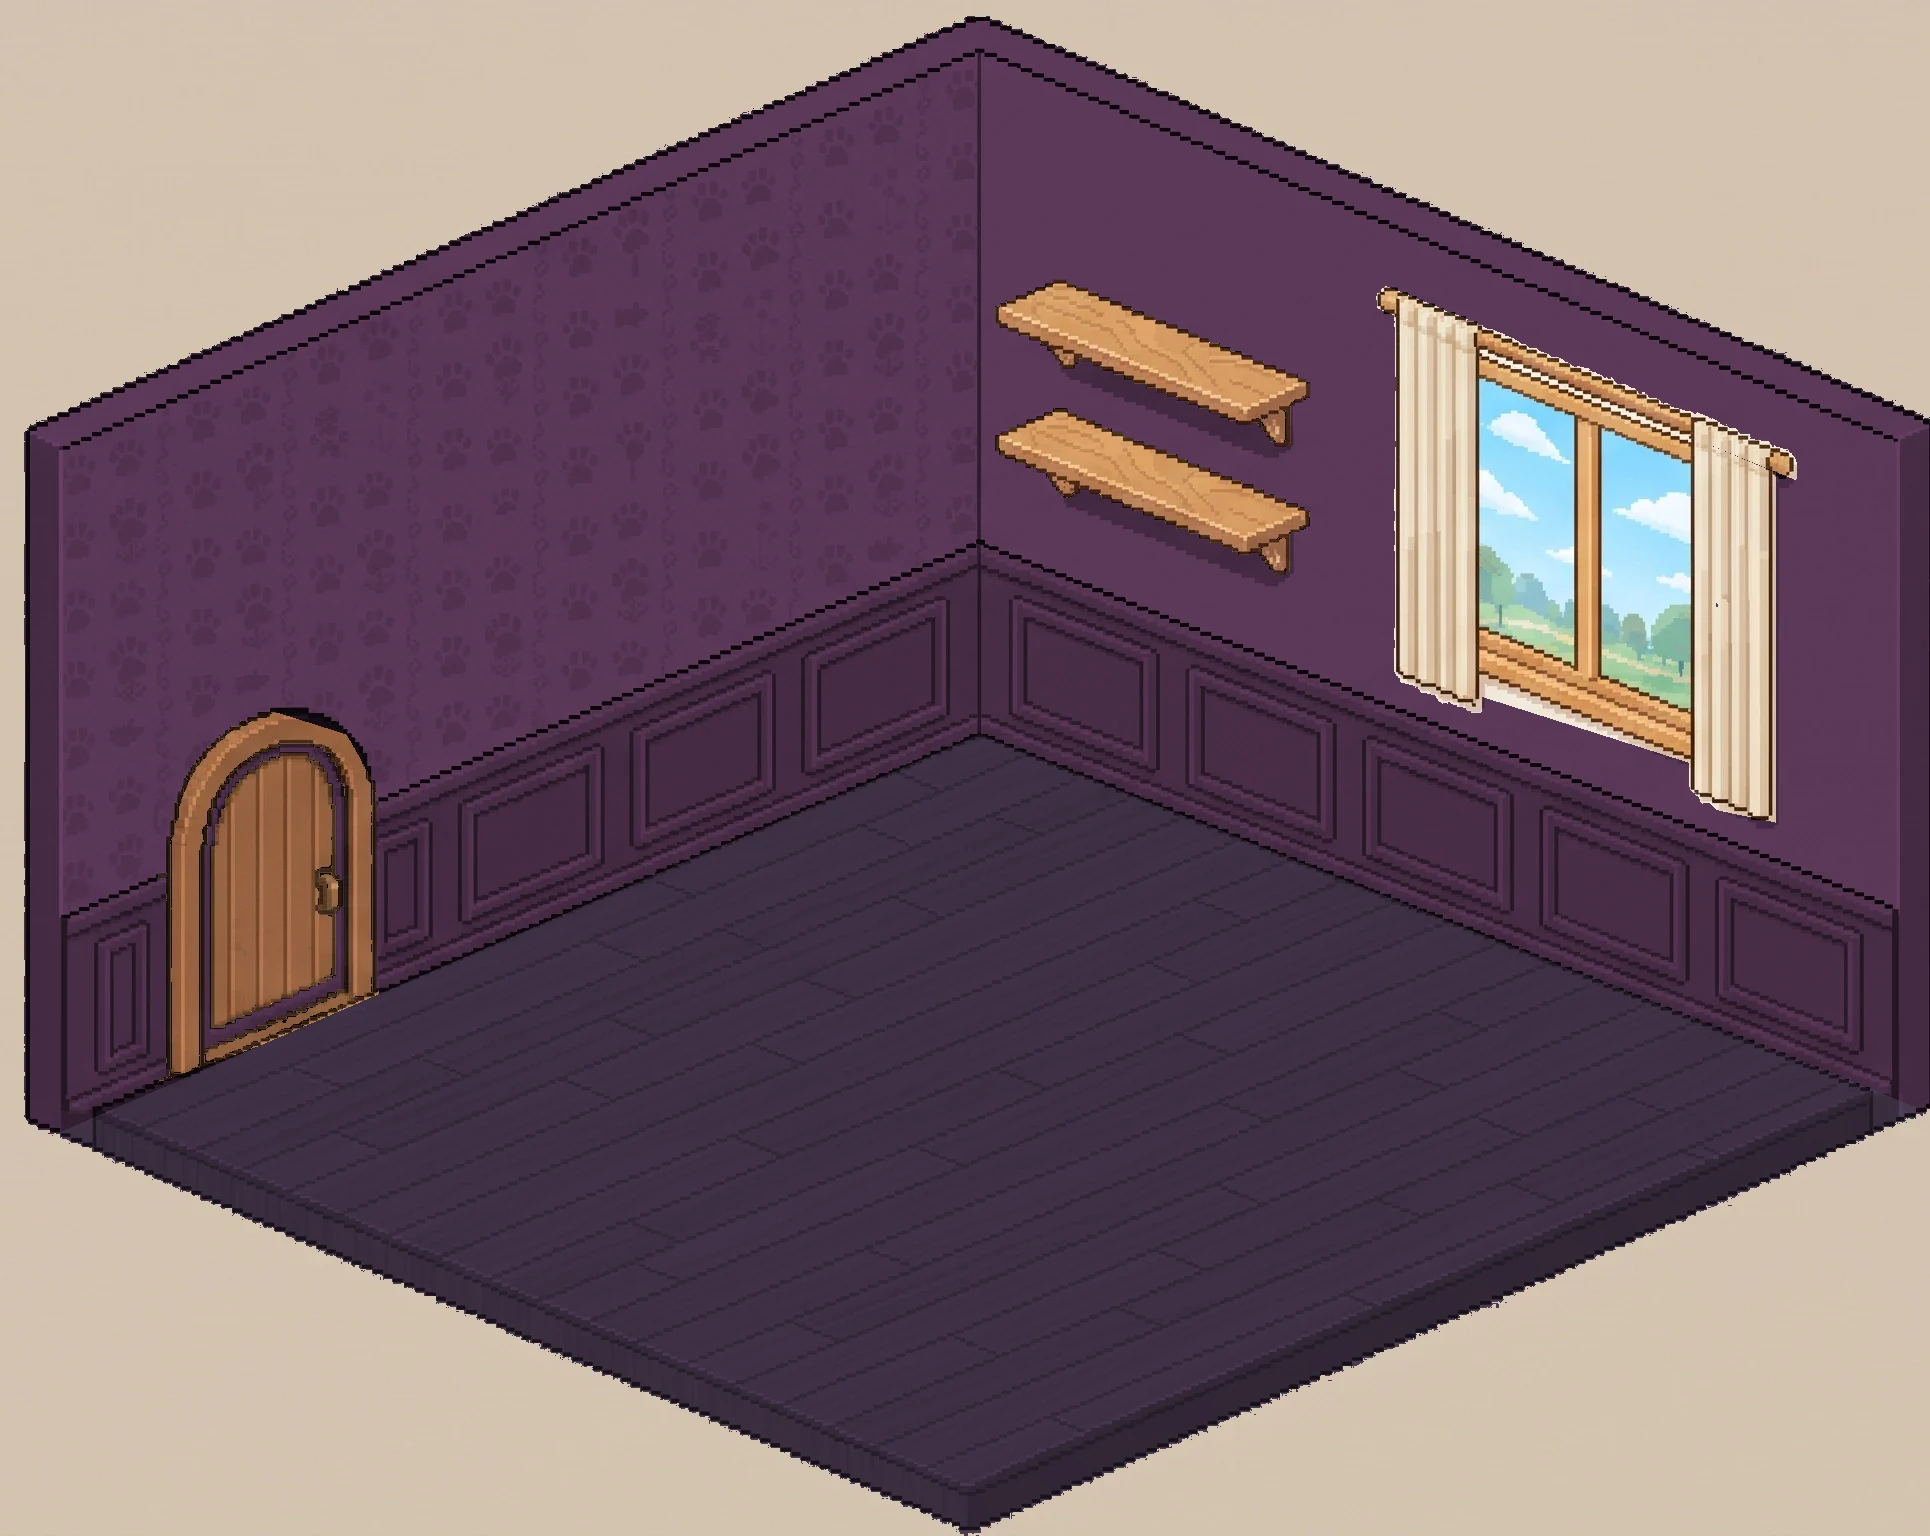
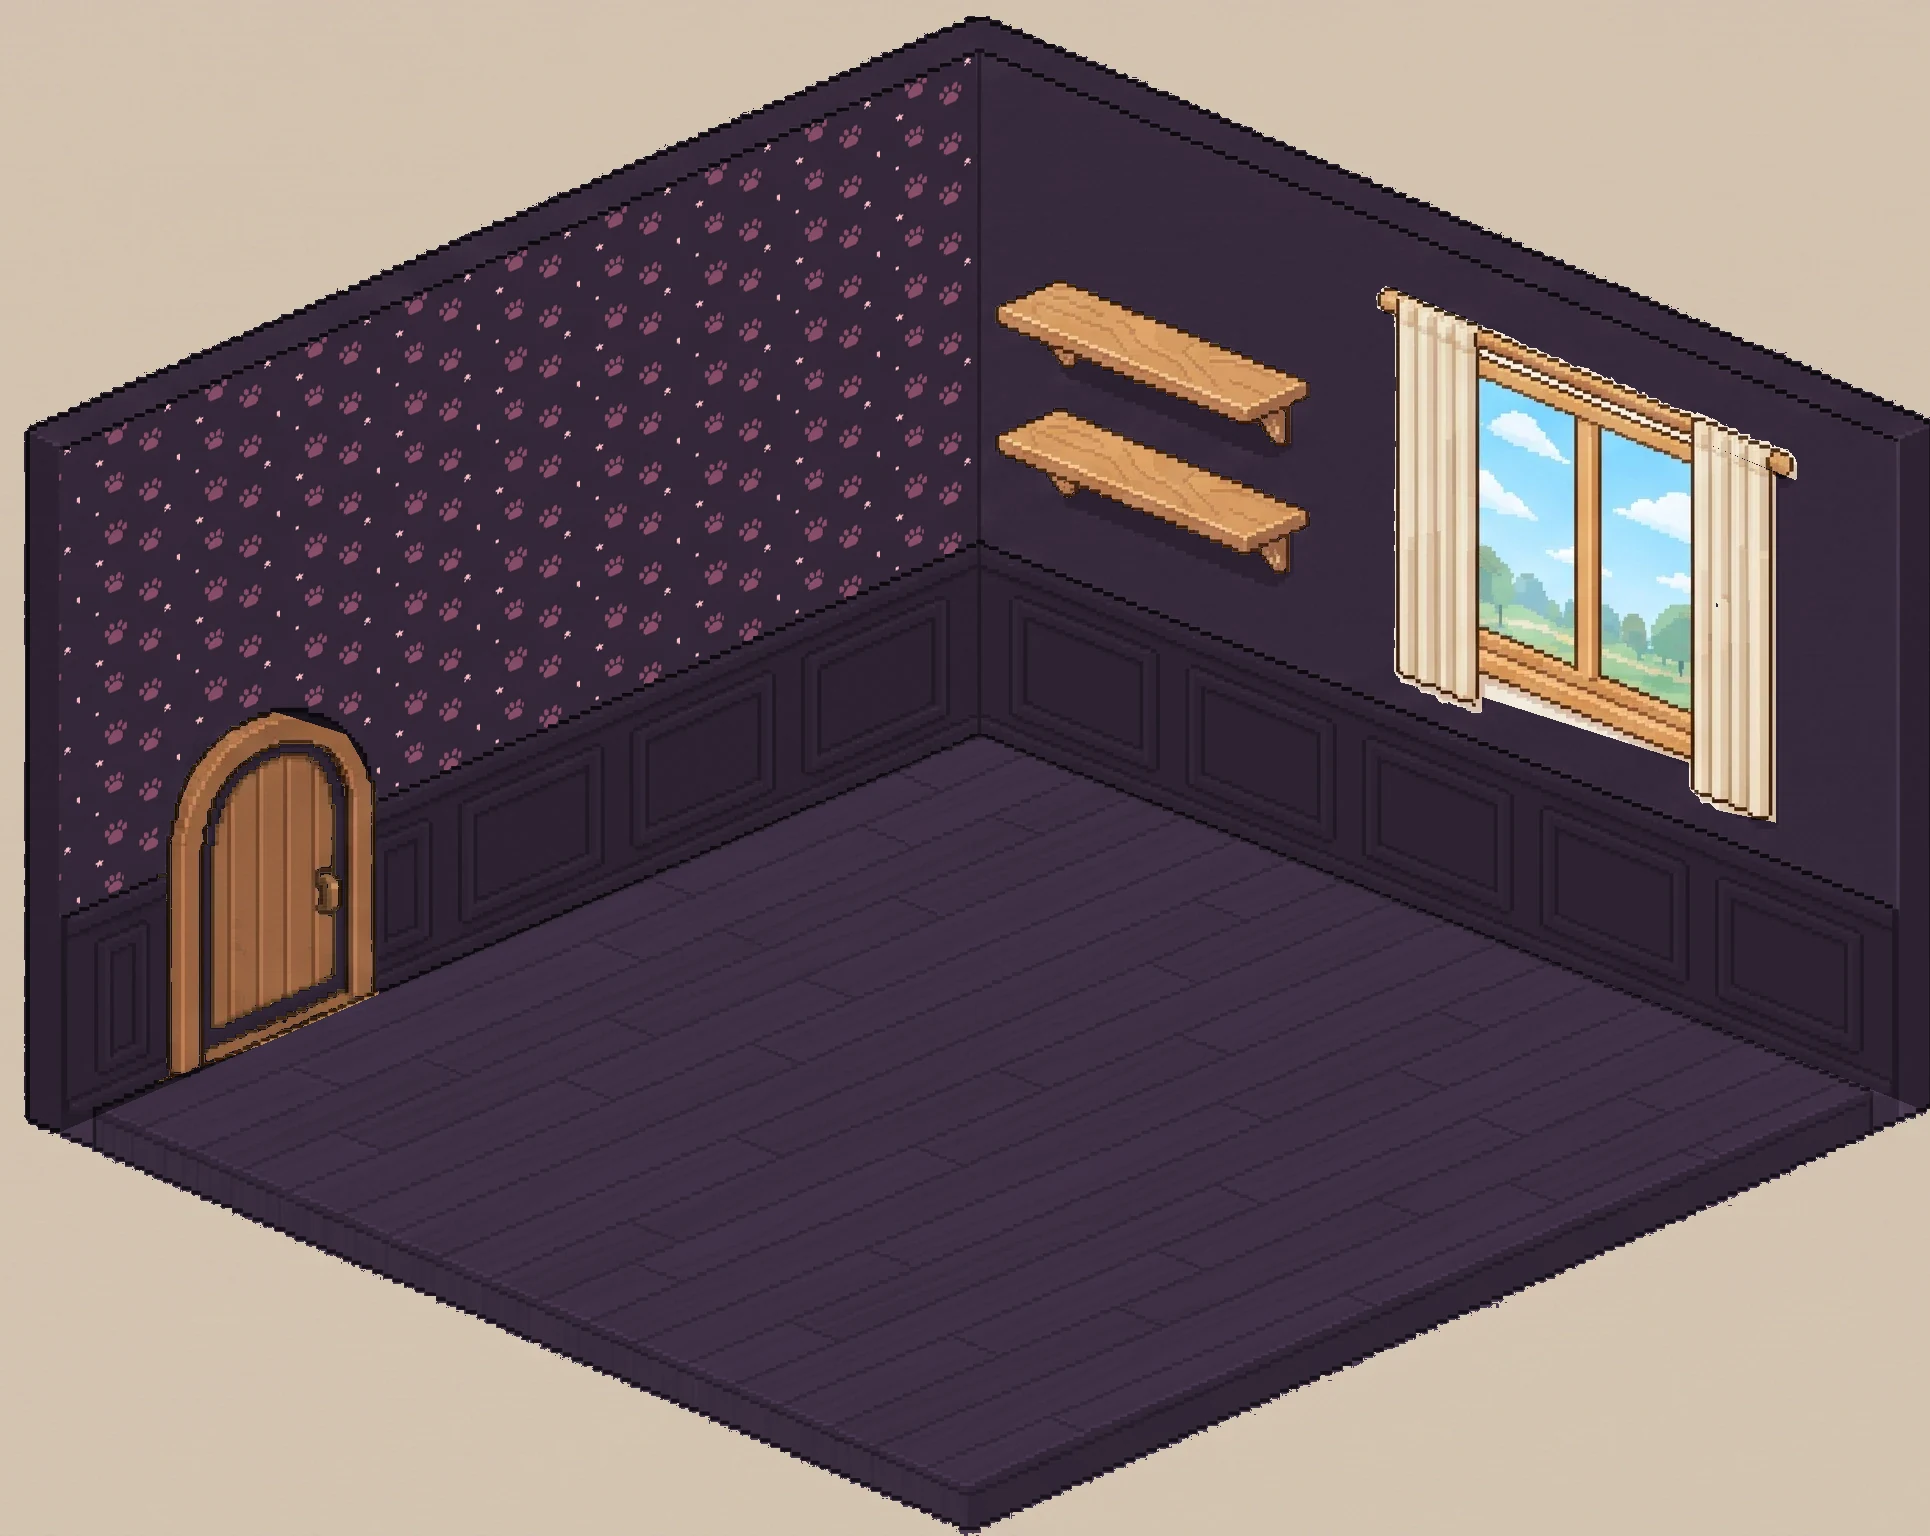
[아지트] 벽지 셋(라일락·분홍·밤)을 받은 원본 견본으로 — 크림 방 왼쪽 벽에 기울기대로 입힘
- sian-ref/azit-hd/paper: 받은 견본 셋 그대로 보관
- _dev/azit-hd-app.py paper_room: 500픽셀 반복 한 칸을 0.2배로, 세로 줄째 벽 기울기만큼 내려 입히고 크림 방 명암을 곱함 · 다른 벽은 견본 바탕색
- azit.html ROOM_V 2, CLAUDE.md·PROJECT_CONTEXT 기록

Claude-Session: https://claude.ai/code/session_01D364GF868k3HTded8WiX4b

diff --git a/azit.html b/azit.html
@@ -463,13 +463,13 @@
   hdReady.then(function () { if (cur && cur.me) tray(); if (cur && cur.show) showList(); });   // 소품 칸 작은 그림도 원본으로
   function hd(n) { return hdPics[n] || null; }
   // 방 그림 — 벽지마다 큰 원본(받는 데 조금 걸림)과 1x 미리보기(작아서 먼저 옴 — 흐리게 먼저 보인다). 고른 벽지만 받는다
-  var roomPics = {}, roomLoading = {};
+  var roomPics = {}, roomLoading = {}, ROOM_V = { room_lilac: 2, room_pink: 2, room_night: 2 };   // 11/27 받은 벽지 원본 셋으로 다시 — 예전 그림이 캐시에 남지 않게
   function roomPic(name) {
     if (roomPics[name]) return roomPics[name];
     if (!roomLoading[name]) {
       roomLoading[name] = true;
-      loadImg(HDI + name + '-1x.webp?v=' + HD_V).then(function (im) { if (im && !roomPics[name]) { roomPics[name] = im; roomPics[name].small = true; roomCache = {}; staticDirty = true; kick(); } });
-      loadImg(HDI + name + '.webp?v=' + HD_V).then(function (im) { if (im) { roomPics[name] = im; roomCache = {}; staticDirty = true; kick(); } });
+      loadImg(HDI + name + '-1x.webp?v=' + (ROOM_V[name] || HD_V)).then(function (im) { if (im && !roomPics[name]) { roomPics[name] = im; roomPics[name].small = true; roomCache = {}; staticDirty = true; kick(); } });
+      loadImg(HDI + name + '.webp?v=' + (ROOM_V[name] || HD_V)).then(function (im) { if (im) { roomPics[name] = im; roomCache = {}; staticDirty = true; kick(); } });
     }
     return null;
   }

diff --git a/_dev/azit-hd-app.py b/_dev/azit-hd-app.py
@@ -3,8 +3,8 @@
 # 가르시아 "고해상도 시안을 적용해줘" → "실제 [아지트]에 적용"(hq DECISIONS 11/26). 시안(azit-hd-sian.html)과 같은 방 그림·소품 원본을
 # 앱 주소(icons/azit-hd)로 옮기고, 원본이 없는 것은 크림 방에서 만든다:
 #   1) 방: 받은 크림 방(sian-ref/azit-hd/room.webp, 원본 x 400부터 1930×1536 — 방 한 점 = 4.5픽셀) → room.webp(크림 발바닥 = jelly)
-#   2) 벽지 셋(라일락·밤 블랙 핑크·분홍): 원본이 없어 크림 방의 벽(벽지·판벽·벽 윗면)만 색을 바꾼다 — 창·커튼·선반 나무·문은 그대로.
-#      밤은 바닥도 보랏빛 어두운 나무로(예전 점 방 room_night과 같은 결, _dev/azit-extra.py room_night). 원본을 받으면 바꾼다
+#   2) 벽지 셋(라일락·밤 블랙 핑크·분홍): 11/27 받은 평평한 견본(sian-ref/azit-hd/paper)을 크림 방 왼쪽 벽에 기울기대로 입히고(paper_room),
+#      다른 벽·판벽은 견본 바탕색으로 — 창·커튼·선반 나무·문은 그대로. 밤은 바닥도 보랏빛 어두운 나무로. 견본이 없으면 예전처럼 색만 바꿈(theme_room)
 #   3) 방마다 1x 미리보기(방 한 점 = 1픽셀) — 큰 그림을 받는 동안 흐리게 먼저 보인다
 #   4) 밤 창: 창유리(하늘·구름·나무)만 밤하늘로 바꾼 덧그림 window_night.webp(+ 자리 WIN_BOX, 방 한 점 단위)
 #   5) 소품 원본 33개: sian-ref/azit-hd/items 그대로 복사(받은 시트 18 + 11/25 기본 방 12 + 트로피·가랜드 + 켜진 조명)
@@ -108,6 +108,70 @@ def theme_room(img, name):
     return out
 
 
+# ── 벽지 원본(11/27 가르시아가 받은 평평한 견본 셋 — sian-ref/azit-hd/paper, 받은 그대로 보관) ──
+# 견본은 500픽셀마다 반복(자기 상관으로 잰 값) — 오른쪽 아래 Gemini 표시를 피해 가운데 한 칸(500~1000)을 무늬 한 장으로 쓴다.
+# 크림 방 왼쪽 벽 벽지 칸(paper_mask)에 세로 줄째 벽 기울기만큼 내려 입히고(발바닥은 서 있는 그대로), 크림 방의 밝고 어두움(모서리·위쪽 그늘)은 곱해서 남긴다.
+# 벽지 칸 밖의 벽(오른쪽 벽·판벽·벽 윗면)은 견본 바탕색 × 크림 방의 밝기 비율 — 판벽 선·그림자가 그대로 보인다. 밤은 바닥도 어둡게(예전과 같음).
+PAPER_DIR = os.path.join(HD_SRC, "paper")
+PAPER_PERIOD, PAPER_SCALE = 500, 0.2      # 견본 무늬 한 장 · 방에 입힐 크기(발바닥 폭 약 110 → 22픽셀, 크림 벽지 발바닥과 같게)
+
+
+def paper_mask(img, wall):
+    """크림 방 왼쪽 벽의 벽지 칸 — 밝은 크림·옅은 발바닥 색의 가장 큰 덩어리를 세로 줄마다 위·아래 끝까지 채움(판벽·윗면 띠·문은 빠짐)"""
+    H, W = wall.shape
+    ys, xs = np.mgrid[0:H, 0:W]
+    px = img * 255
+    paperish = (px.min(-1) > 150) & (px[..., 0] - px[..., 2] < 75) & (px[..., 0] > 215)
+    door = poly_mask(H, W, DOOR)
+    cand = wall & (xs < CXP - 3) & paperish & ~door
+    lab, n = ndimage.label(ndimage.binary_opening(cand, iterations=2))
+    sz = ndimage.sum(np.ones_like(lab), lab, range(1, n + 1))
+    big = lab == 1 + int(np.argmax(sz))
+    out = np.zeros_like(big)
+    for x in range(W):
+        c = np.nonzero(big[:, x])[0]
+        if len(c) > 20:
+            out[c.min():c.max() + 1, x] = True
+    return out & wall & ~door
+
+
+def paper_room(img, name):
+    src = os.path.join(PAPER_DIR, "paper_" + name + ".webp")
+    if not os.path.exists(src):
+        return None
+    sw = Image.open(src).convert("RGB")
+    a0 = PAPER_PERIOD
+    tile_px = round(PAPER_PERIOD * PAPER_SCALE)
+    tile = np.asarray(sw.crop((a0, a0, a0 + PAPER_PERIOD, a0 + PAPER_PERIOD)).resize((tile_px, tile_px), Image.LANCZOS)).astype(float) / 255
+    bgc = np.median(np.asarray(sw).reshape(-1, 3), 0) / 255           # 견본 바탕색
+    wall, floor = regions(img)
+    paper = paper_mask(img, wall)
+    _, L, _ = hls(img)
+    out = img.copy()
+    # 벽지 칸: 세로 줄 u = 모서리에서 왼쪽으로 떨어진 거리, 줄 v = 벽 바닥 줄과 나란히(왼쪽으로 갈수록 내려감)
+    ys, xs = np.nonzero(paper)
+    u = (CXP - xs).astype(float)
+    v = ys - SL * u
+    shade_src = np.where(paper, L, 0)
+    num = ndimage.gaussian_filter(shade_src, 14); den = ndimage.gaussian_filter(paper.astype(float), 14)
+    smooth = num / np.maximum(den, 1e-6)
+    ref = np.median(smooth[paper])
+    shade = np.clip(smooth[ys, xs] / ref, 0.82, 1.06)
+    for ch in range(3):
+        val = ndimage.map_coordinates(tile[..., ch], [v % tile_px, u % tile_px], order=1, mode="grid-wrap")
+        out[ys, xs, ch] = np.clip(val * shade, 0, 1)
+    # 그 밖의 벽: 바탕색 × 밝기 비율(크림 벽 바탕 밝기 기준)
+    rest = wall & ~paper
+    lref = np.median(L[paper])
+    ratio = np.clip(L[rest] / lref, 0.25, 1.12)[:, None]
+    out[rest] = np.clip(bgc[None, :] * ratio + (ratio - 1).clip(0) * 0.6, 0, 1)
+    if name == "night":
+        h, Lf_all, Sx = hls(img)
+        Lf, Sf = Lf_all[floor], Sx[floor]
+        out[floor] = rgb_of(np.full_like(Lf, 282), 0.07 + Lf * 0.27, np.clip(0.14 + Sf * 0.08, 0, 1))
+    return out
+
+
 def night_window(img):
     """창유리(하늘·구름·나무·풀)만 밤으로 — 밤하늘 남색 + 어두운 숲 + 달·별. 유리 밖은 투명"""
     x0, y0, x1, y1 = GLASS_BOX
@@ -163,7 +227,9 @@ def main():
     os.makedirs(OUT, exist_ok=True)
     img = np.asarray(Image.open(os.path.join(HD_SRC, "room.webp")).convert("RGB")).astype(float) / 255
     for name in ("jelly", "lilac", "night", "pink"):
-        arr = img if name == "jelly" else theme_room(img, name)
+        arr = img if name == "jelly" else paper_room(img, name)
+        if arr is None:   # 벽지 원본이 없으면 예전처럼 크림 방 색만 바꿈
+            arr = theme_room(img, name)
         fn = "room" if name == "jelly" else "room_" + name
         im = save_webp(arr, os.path.join(OUT, fn + ".webp"))
         one = im.resize((round(im.width / S), round(im.height / S)), Image.LANCZOS)

diff --git a/CLAUDE.md b/CLAUDE.md
@@ -19,7 +19,7 @@ UI만 먼저 만들고 데이터는 로컬(localStorage)에 임시로 둔다.
 - 2026-11-19 가르시아 "배포": [동네] 지도(town.html)는 벡터 지도 — Leaflet은 그대로 두고 바탕만 MapLibre GL + OpenFreeMap(가입·키 없음, `map-vector.js`, `vendor/maplibre/`). 길·건물·공원·물·글자 색은 `map-vector.js`의 `COLORS`(밤=블랙 핑크, 낮=그 밖)에서. 데이터를 못 받으면 원래 그림 지도로. [산책] 등 다른 지도는 아직 그림 지도 — [산책]·[동네] 지도의 톱니(설정) 판(`quick-set.js`, 2026-11-23)에 화면 색과 지도 모양 [기본]·[도트]·길·장소 이름 전환이 있다(`pixel-map.js`, 기본은 각자 원래 지도, 고른 것은 두 화면이 같이 씀).
 - [아지트] 방은 고해상도(2026-11-26 가르시아 "고해상도 시안을 적용해줘"): 받은 크림 방 원본(`icons/azit-hd`, 방 한 점 = 원본 4.5픽셀)에 원본 있는 소품은 원본을 곱게,
   원본 없는 소품은 점 그림(`icons/azit-room`)을 점째 키워 그린다 — 자리·누르기·크기는 점 그림 기준(방 점 단위), 그리기만 화면 픽셀(`azit.html` Z).
-  새 소품 원본을 받으면 `_dev/azit-hd-app.py`로 `icons/azit-hd`에 넣고 `azit.html` `HD_NAMES`에 한 줄. 벽지 셋(라일락·밤·분홍)은 원본이 없어 크림 방 색만 바꾼 것.
+  새 소품 원본을 받으면 `_dev/azit-hd-app.py`로 `icons/azit-hd`에 넣고 `azit.html` `HD_NAMES`에 한 줄. 벽지 셋(라일락·밤·분홍)은 받은 평평한 견본(`sian-ref/azit-hd/paper`)을 크림 방 왼쪽 벽에 기울기대로 입힌 것(2026-11-27, `azit-hd-app.py` `paper_room` — 다른 벽·판벽은 견본 바탕색). 벽지 그림을 바꾸면 `azit.html` `ROOM_V`를 올린다.
   글자 판(azit-room.js `both`)은 빈 판으로 받아 글씨를 그림에 써 넣고 다른 벽용 `이름_L` 원본도 따로 만든다(원본을 뒤집으면 글씨가 거울처럼 된다 — `_dev/azit-remake.py`).
 - PWA: `manifest.json` + 서비스워커로 "홈 화면에 추가" 정도까지만 우선 지원. 오프라인 캐싱 등은
   필요해지면 그때 추가.

diff --git a/PROJECT_CONTEXT.md b/PROJECT_CONTEXT.md
@@ -3923,3 +3923,13 @@ Black Han Sans 굵게 뭉개짐 0곳. 실제 폰은 아직.
 - 시험: 별 더하기·별 누르기·잠든 별자리·완성·별가루·창밖(가까이·방 전체)·3D 시작·별자리 누르기 → 그달 카드·별자리 카드 보이기·PNG 내려받기 16/16,
   강아지 8마리 완성 모습, 젤리·블랙 화면 오류 없음.
 - **배포**: 11/26 가르시아 "배포" — main `640aa86`(다른 세션의 [아지트] 소품 다시 받은 그림·3D 키링 D고리 main `cf6db63`과 합쳐서 — 합친 뒤 시험 16/16 다시).
+
+## [아지트] 벽지 셋을 받은 원본으로 (2026-11-27)
+
+- 가르시아 "추가로 만들어야 할 벽지 프롬프트 줘 봐"(프롬프트 페이지의 평평한 견본 프롬프트 셋) → Gemini로 받은 라일락·분홍·밤 견본 2000×2000
+  → "이거 반영해 줘 새 벽지야". 받은 그대로 `sian-ref/azit-hd/paper/paper_{lilac,pink,night}.webp`.
+- `_dev/azit-hd-app.py` `paper_room`: 견본은 500픽셀마다 반복(자기 상관) — 오른쪽 아래 Gemini 표시를 피해 가운데 한 칸을 무늬로, 0.2배(발바닥 폭 약 22픽셀 = 크림 벽지와 같게)
+  → 크림 방 왼쪽 벽 벽지 칸(밝은 크림·발바닥 색 덩어리를 세로 줄마다 채움, 판벽·윗면 띠·문 빼고)에 세로 줄째 벽 기울기(0.4325)만큼 내려 입힘,
+  크림 방의 밝고 어두움은 곱해서 남김. 그 밖의 벽(오른쪽 벽·판벽·벽 윗면)은 견본 바탕색 × 크림 방 밝기 비율. 밤은 바닥도 어둡게(예전과 같음). 견본이 없으면 예전 색 바꾸기.
+- 바뀐 그림: `icons/azit-hd/room_{lilac,pink,night}(-1x).webp`, `azit.html` `ROOM_V` 2(예전 그림이 캐시에 남지 않게). 크림 방·소품은 그대로.
+- 시험: 세 벽지로 [아지트] 열기 390폭 — 화면 오류 없음.
